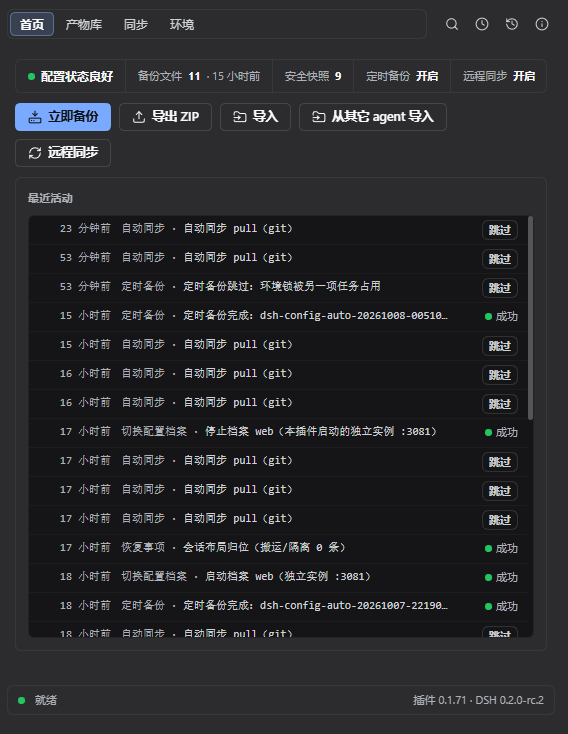
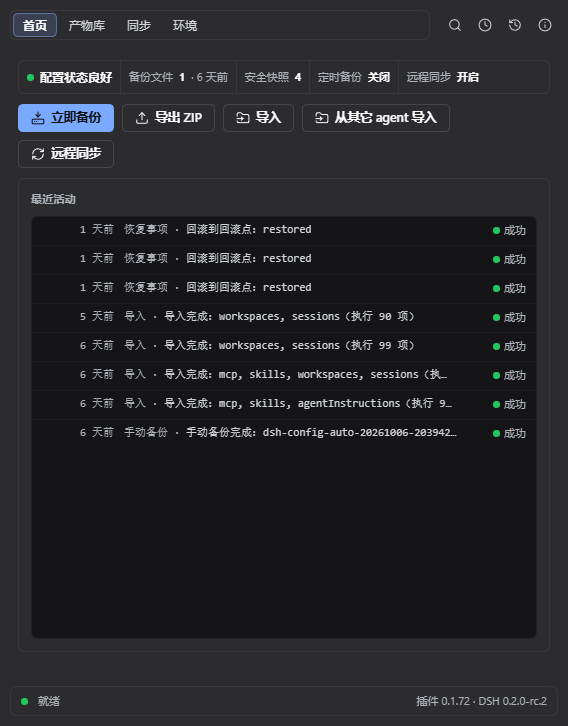
docs(assets): 重截中英 4 槽位截图（v0.1.72 现状；环境槽位改示「维护与诊断 / 回滚点」）
- 四页各一张、中英成对，统一 568×726（564×720 画布 + 2px 边）：首页 / 产物库 / 同步 / 环境
- 环境槽位（文件名沿用 v1 槽位名 screenshot-profiles-*）改示「维护与诊断」：磁盘占用 + 工作区 + 会话回滚（回滚点 + 「查看回滚点」）+ 救援模式 + 会话体检 ——
  让 0.1.72 的回退能力在截图里可见
- 同步页在 QA 沙箱里配了一条 Git 通道（只写本机配置、未跑同步、未碰远端），卡片不再是「全部未配置」
- 文档同步：assets/README.md 槽位说明 + README.md / README.zh-CN.md 截图题注（环境 · 档案 → 环境 · 维护与诊断）
- screenshots.json 无需改动：4 条 -en 的文件名与 URL 未变（已脚本校验「清单 ↔ assets」一致，PASS）
- 截图环境：隔离实例（DSH_HOME=.qa/home，profile web，端口 3177）+ headless Edge(CDP) 驱动；插件 0.1.72 · DSH 0.2.0-rc.2

diff --git a/assets/README.md b/assets/README.md
@@ -19,7 +19,7 @@
 | `screenshot-overview-en.png` / `screenshot-overview-zh.png` | **首页**（Home：状态条 + 立即备份 / 导出 / 导入 / 远程同步 + 最近活动） |
 | `screenshot-backups-en.png` / `screenshot-backups-zh.png` | **产物库**（Artifact library：源筛选 + 扁平列表 + 底栏「手动导出 / 从文件导入 / 逛市场 / 发布到市场」） |
 | `screenshot-sync-en.png` / `screenshot-sync-zh.png` | **同步**（Sync：Git / WebDAV / 对象存储 / Gist 四条通道卡） |
-| `screenshot-profiles-en.png` / `screenshot-profiles-zh.png` | **环境 · 档案**（Environment → Profiles：运行状态 + 全部档案） |
+| `screenshot-profiles-en.png` / `screenshot-profiles-zh.png` | **环境 · 维护与诊断**（Environment → Maintenance & Diagnostics：磁盘占用 / 工作区 + 会话回滚（回滚点 + 「查看回滚点」）/ 救援模式 / 会话体检） |
 
 > **文件名沿用 v1 时代的槽位名**（`overview` / `backups` / `sync` / `profiles`），与现在的页面名一一对应关系见上表 —— 这样换图不会动 `screenshots.json` 里的 URL。
 > 命名规则：`screenshot-<槽位>-<语言>.png`；`-en` 供仓库根 `README.md` 引用，`-zh` 供 `README.zh-CN.md` 引用，4 个槽位共 8 张。**改名**（而非换图）必须同步 `screenshots.json`，并向 `awesome-dsh-plugin` 提交更新，否则列表页的图片链接会 404。

diff --git a/README.md b/README.md
@@ -128,9 +128,9 @@ Several DSH plugins live in this space and they solve different problems — pic
 |:---:|:---:|
 | ![Home](assets/screenshot-overview-en.png) | ![Library](assets/screenshot-backups-en.png) |
 
-| Sync (four channel cards) | Environment · Profiles |
+| Sync (four channel cards) | Environment · Maintenance & Diagnostics |
 |:---:|:---:|
-| ![Sync](assets/screenshot-sync-en.png) | ![Environment · Profiles](assets/screenshot-profiles-en.png) |
+| ![Sync](assets/screenshot-sync-en.png) | ![Environment · Maintenance & Diagnostics](assets/screenshot-profiles-en.png) |
 
 ---
 
